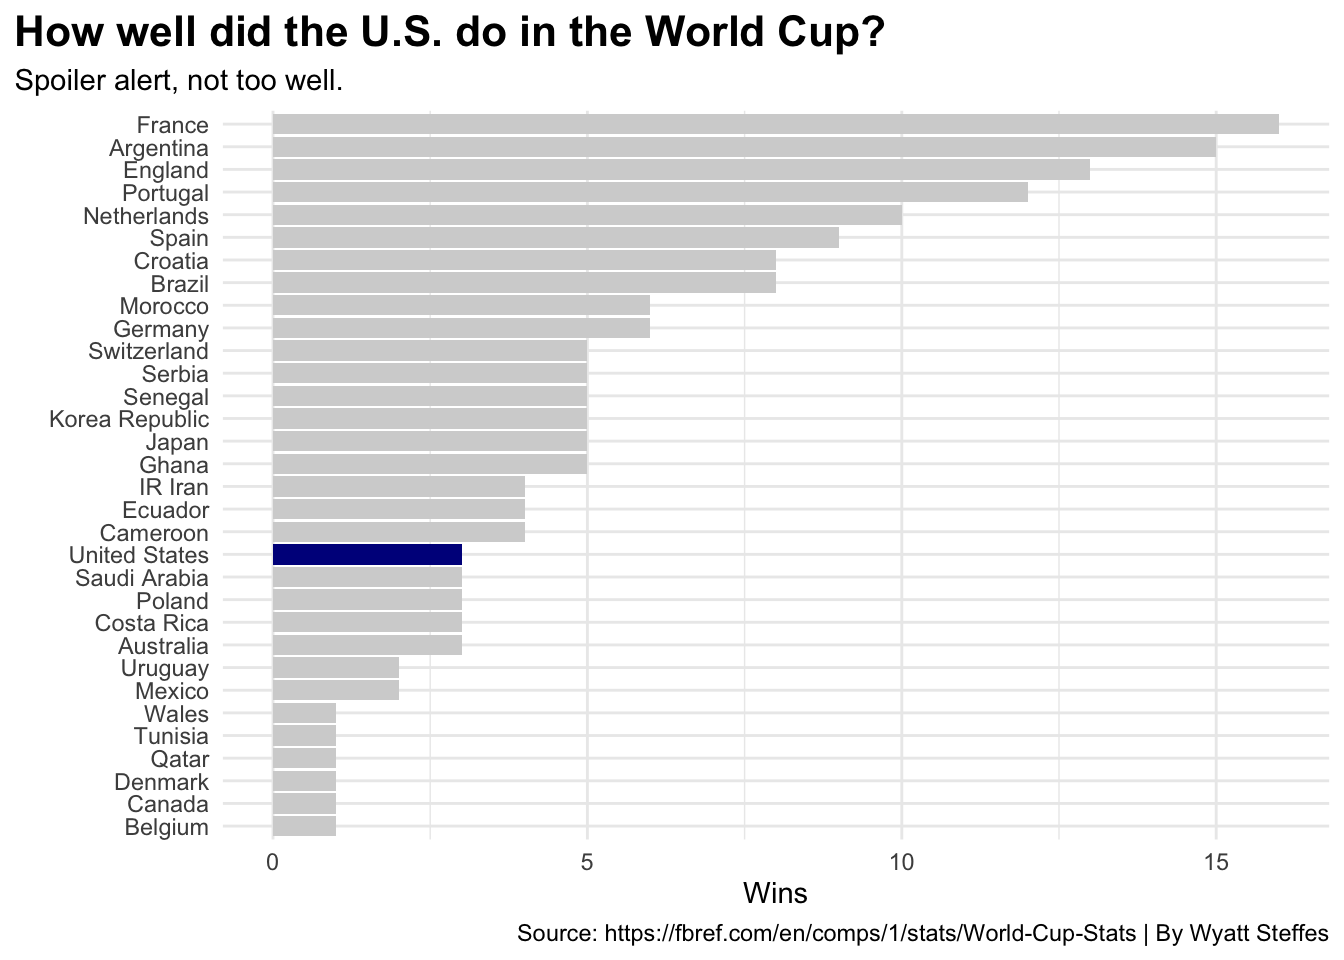
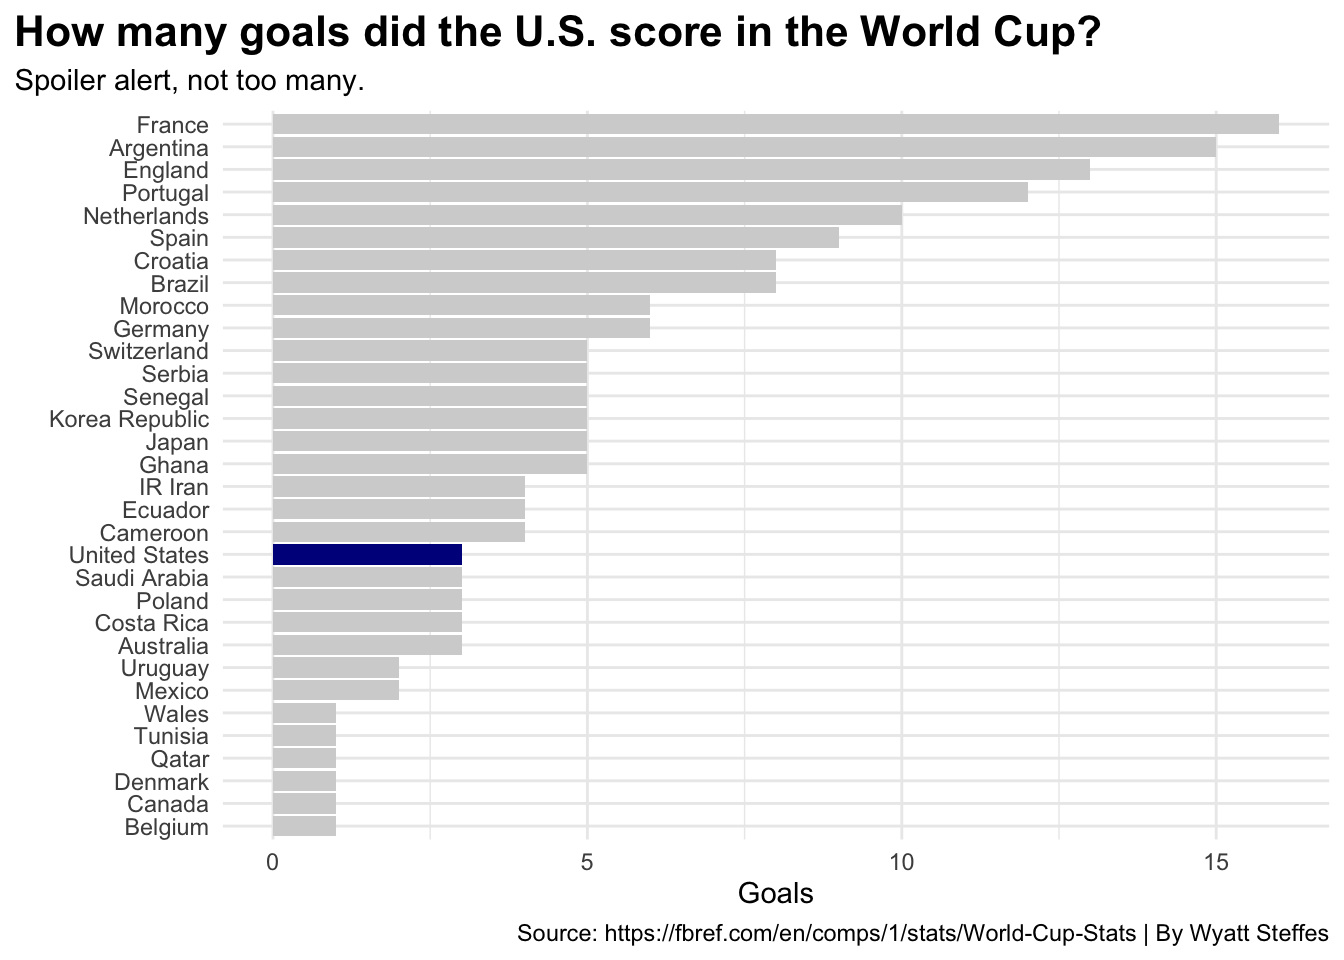
Test 4

Changed region(s): [[0.0938, 0.0, 0.8125, 0.0938], [0.5312, 0.9062, 0.625, 0.9375]]

diff --git a/posts/US-mens-WC/index.html b/posts/US-mens-WC/index.html
@@ -9,7 +9,7 @@
 <meta name="author" content="Wyatt Steffes">
 <meta name="dcterms.date" content="2023-05-04">
 
-<title>Wyatt Steffes’ Blog - Why did the U.S. Men’s soccer team fail in the Wiorld Cup this year?</title>
+<title>Wyatt Steffes’ Blog - Why did the U.S. Men’s soccer team fail in the World Cup this year?</title>
 <style>
 code{white-space: pre-wrap;}
 span.smallcaps{font-variant: small-caps;}
@@ -173,7 +173,7 @@ code span.wa { color: #60a0b0; font-weight: bold; font-style: italic; } /* Warni
 <header id="title-block-header" class="quarto-title-block default page-columns page-full">
   <div class="quarto-title-banner page-columns page-full">
     <div class="quarto-title column-body">
-      <h1 class="title">Why did the U.S. Men’s soccer team fail in the Wiorld Cup this year?</h1>
+      <h1 class="title">Why did the U.S. Men’s soccer team fail in the World Cup this year?</h1>
                                 <div class="quarto-categories">
                 <div class="quarto-category">World Cup</div>
                 <div class="quarto-category">United States</div>
@@ -213,7 +213,7 @@ code span.wa { color: #60a0b0; font-weight: bold; font-style: italic; } /* Warni
 
 
 
-<p>Here’s the first test line on why the U.S. sucks at the World Cup</p>
+<p>Soccer has never been the most popular sport in the United States. Seeming to be nothing more than a european trend for some americans, most U.S. sports fans have given little care to the sport. Over the last few years though, the sport has become more popular due to the national team’s success in international competition. The women’s team have dominated the Women’s World Cup in recent years, winning three world cup titles. They have brought a lot of attention to the sport to the states, and now the men’s team have helped boost the country’s support for the team with their presence in the World Cup. Even though the men’s team managed to have a strong presence of support this past year, they only managed to make it to the round of 16. Seeing that the United States love to be first in everything, why didn’t they place higher in the World Cup? The men’s team has never gotten farther than the round of 16. With a roster of very talented players, why couldn’t they make it past the round of 16 this time?We can start by taking a look at how many goals they scored in the World Cup.</p>
 <div class="cell">
 <details>
 <summary>Code</summary>
@@ -232,7 +232,7 @@ code span.wa { color: #60a0b0; font-weight: bold; font-style: italic; } /* Warni
 <span id="cb1-13"><a href="#cb1-13" aria-hidden="true" tabindex="-1"></a><span class="fu">ggplot</span>() <span class="sc">+</span></span>
 <span id="cb1-14"><a href="#cb1-14" aria-hidden="true" tabindex="-1"></a>  <span class="fu">geom_bar</span>(<span class="at">data=</span>goals2, <span class="fu">aes</span>(<span class="at">x=</span><span class="fu">reorder</span>(Squad, Gls...<span class="dv">9</span>), <span class="at">weight=</span>Gls...<span class="dv">9</span>), <span class="at">fill=</span><span class="st">"lightgrey"</span>) <span class="sc">+</span></span>
 <span id="cb1-15"><a href="#cb1-15" aria-hidden="true" tabindex="-1"></a>  <span class="fu">geom_bar</span>(<span class="at">data=</span>US, <span class="fu">aes</span>(<span class="at">x=</span><span class="fu">reorder</span>(Squad, Gls...<span class="dv">9</span>), <span class="at">weight=</span>Gls...<span class="dv">9</span>), <span class="at">fill=</span><span class="st">"darkblue"</span>) <span class="sc">+</span></span>
-<span id="cb1-16"><a href="#cb1-16" aria-hidden="true" tabindex="-1"></a>  <span class="fu">labs</span>(<span class="at">x=</span><span class="st">" "</span>, <span class="at">y=</span><span class="st">"Wins"</span>, <span class="at">title=</span><span class="st">"How well did the U.S. do in the World Cup?"</span>, <span class="at">subtitle=</span> <span class="st">"Spoiler alert, not too well."</span>, <span class="at">caption=</span><span class="st">"Source: https://fbref.com/en/comps/1/stats/World-Cup-Stats | By Wyatt Steffes"</span>) <span class="sc">+</span></span>
+<span id="cb1-16"><a href="#cb1-16" aria-hidden="true" tabindex="-1"></a>  <span class="fu">labs</span>(<span class="at">x=</span><span class="st">" "</span>, <span class="at">y=</span><span class="st">"Goals"</span>, <span class="at">title=</span><span class="st">"How many goals did the U.S. score in the World Cup?"</span>, <span class="at">subtitle=</span> <span class="st">"Spoiler alert, not too many."</span>, <span class="at">caption=</span><span class="st">"Source: https://fbref.com/en/comps/1/stats/World-Cup-Stats | By Wyatt Steffes"</span>) <span class="sc">+</span></span>
 <span id="cb1-17"><a href="#cb1-17" aria-hidden="true" tabindex="-1"></a>  <span class="fu">theme</span>(<span class="at">plot.title =</span> <span class="fu">element_text</span>(<span class="at">face=</span><span class="st">"bold"</span>)) <span class="sc">+</span></span>
 <span id="cb1-18"><a href="#cb1-18" aria-hidden="true" tabindex="-1"></a>  <span class="fu">theme_minimal</span>()<span class="sc">+</span></span>
 <span id="cb1-19"><a href="#cb1-19" aria-hidden="true" tabindex="-1"></a>  <span class="fu">theme</span>(</span>
@@ -245,7 +245,8 @@ code span.wa { color: #60a0b0; font-weight: bold; font-style: italic; } /* Warni
 <p><img src="index_files/figure-html/unnamed-chunk-1-1.png" class="img-fluid" width="672"></p>
 </div>
 </div>
-<p>Here’s test line #2</p>
+<p>The men’s team played 4 matches and only managed to score 3 goals. That is pretty average for that amount of matches played for a team. So clearly the team needs to score more goals.</p>
+<p>One of the top goal scorers for the men’s national team is captain america himself; Christian Pulisic. Christian has only played for the national team for a few years now. In those few years, he has managed to make a name for himself and become the poster child for United States soccer. On the field, Christian plays at midfield, which means he can play at multiple positions throughout the game and the season. Seeing that he is one of the men’s national team key players, we can take a look at which position the team benefits from. We can analyze this by looking at his wins, losses and draws from end of his 2021 season to the end of his 2022 season on both the U.S. men’s national team and his club team in England, Chelsea F.C. The games Christitian Played for the U.S. are highlighted in darker colors.</p>
 <div class="cell">
 <details>
 <summary>Code</summary>
@@ -285,7 +286,8 @@ code span.wa { color: #60a0b0; font-weight: bold; font-style: italic; } /* Warni
 <p><img src="index_files/figure-html/unnamed-chunk-2-1.png" class="img-fluid" width="672"></p>
 </div>
 </div>
-<p>Here’s test line #3</p>
+<p>It seems Christian plays his best games for the U.S. at the forward position, and had the most losses for the U.S. at the left wing position. So the team just needs to play Christian at the forward position to win more.</p>
+<p>Now that we’ve seen one of the offensive prom=blems for the team, let’s look at the teams defense. More specifically, let’s analyze the most important position of the defensive end of a soccer team; the goalie. The U.S. played MAtt Turner at goalie for the entire tournament. He had a save percentage of 75% throughout the whole tournament. That’s not bad, so let’s compare it to the rest of the goalies in the tournament.</p>
 <div class="cell">
 <details>
 <summary>Code</summary>
@@ -301,18 +303,21 @@ code span.wa { color: #60a0b0; font-weight: bold; font-style: italic; } /* Warni
 <span id="cb3-10"><a href="#cb3-10" aria-hidden="true" tabindex="-1"></a>    <span class="at">data=</span>wall, </span>
 <span id="cb3-11"><a href="#cb3-11" aria-hidden="true" tabindex="-1"></a>    <span class="fu">aes</span>(<span class="at">y=</span>Squad, <span class="at">x=</span>GA, <span class="at">xend=</span>Saves),</span>
 <span id="cb3-12"><a href="#cb3-12" aria-hidden="true" tabindex="-1"></a>    <span class="at">colour =</span> <span class="st">"grey"</span>,</span>
-<span id="cb3-13"><a href="#cb3-13" aria-hidden="true" tabindex="-1"></a>    <span class="at">colour_x =</span> <span class="st">"green"</span>,</span>
-<span id="cb3-14"><a href="#cb3-14" aria-hidden="true" tabindex="-1"></a>    <span class="at">colour_xend =</span> <span class="st">"red"</span>) <span class="sc">+</span></span>
-<span id="cb3-15"><a href="#cb3-15" aria-hidden="true" tabindex="-1"></a>    <span class="fu">labs</span>(<span class="at">x=</span><span class="st">"Goals Allowed"</span>, <span class="at">y=</span><span class="st">" "</span>, <span class="at">title=</span><span class="st">"The U.S, needs to work on their defense."</span>, <span class="at">subtitle=</span><span class="st">"The green means goals saved. The red means goals allowed.***"</span>, <span class="at">caption=</span><span class="st">"Source: https://fbref.com/en/comps/1/keepers/World-Cup-Stats | By Wyatt Steffes"</span>) <span class="sc">+</span></span>
+<span id="cb3-13"><a href="#cb3-13" aria-hidden="true" tabindex="-1"></a>    <span class="at">colour_x =</span> <span class="st">"red"</span>,</span>
+<span id="cb3-14"><a href="#cb3-14" aria-hidden="true" tabindex="-1"></a>    <span class="at">colour_xend =</span> <span class="st">"green"</span>) <span class="sc">+</span></span>
+<span id="cb3-15"><a href="#cb3-15" aria-hidden="true" tabindex="-1"></a>    <span class="fu">labs</span>(<span class="at">x=</span><span class="st">"Goals"</span>, <span class="at">y=</span><span class="st">" "</span>, <span class="at">title=</span><span class="st">"The U.S, needs to work on their defense."</span>, <span class="at">subtitle=</span><span class="st">"The green means goals saved. The red means goals allowed."</span>, <span class="at">caption=</span><span class="st">"Source: https://fbref.com/en/comps/1/keepers/World-Cup-Stats | By Wyatt Steffes"</span>) <span class="sc">+</span></span>
 <span id="cb3-16"><a href="#cb3-16" aria-hidden="true" tabindex="-1"></a>  <span class="fu">theme</span>(</span>
-<span id="cb3-17"><a href="#cb3-17" aria-hidden="true" tabindex="-1"></a>    <span class="at">plot.title =</span> <span class="fu">element_text</span>(<span class="at">size =</span> <span class="dv">16</span>, <span class="at">face =</span> <span class="st">"bold"</span>)</span>
-<span id="cb3-18"><a href="#cb3-18" aria-hidden="true" tabindex="-1"></a>    ) <span class="sc">+</span></span>
-<span id="cb3-19"><a href="#cb3-19" aria-hidden="true" tabindex="-1"></a>  <span class="fu">theme_minimal</span>()</span></code><button title="Copy to Clipboard" class="code-copy-button"><i class="bi"></i></button></pre></div>
+<span id="cb3-17"><a href="#cb3-17" aria-hidden="true" tabindex="-1"></a>    <span class="at">plot.title =</span> <span class="fu">element_text</span>(<span class="at">size =</span> <span class="dv">16</span>, <span class="at">face =</span> <span class="st">"bold"</span>),</span>
+<span id="cb3-18"><a href="#cb3-18" aria-hidden="true" tabindex="-1"></a>    <span class="at">plot.title.position =</span> <span class="st">"plot"</span></span>
+<span id="cb3-19"><a href="#cb3-19" aria-hidden="true" tabindex="-1"></a>    ) <span class="sc">+</span></span>
+<span id="cb3-20"><a href="#cb3-20" aria-hidden="true" tabindex="-1"></a>  <span class="fu">theme_minimal</span>()</span></code><button title="Copy to Clipboard" class="code-copy-button"><i class="bi"></i></button></pre></div>
 </details>
 <div class="cell-output-display">
 <p><img src="index_files/figure-html/unnamed-chunk-3-1.png" class="img-fluid" width="672"></p>
 </div>
 </div>
+<p>Honestly, not a terrible performance. Matt Turner’s tournament performance seemed to be an average one compared to the other goalies in the tournament. He made 8 saves and let in 4 goals. So the U.S. defense department seems to be doing fine.</p>
+<p>So where is the problem for the U.S. men’s national team? There really is no clear answer. Based on the charts above, them seem to be just the average team in the tournament. If they want to win the next World Cup, the team may need to find some local superstars that can help out on both ends of the field.</p>
 
 
 

diff --git a/index.html b/index.html
@@ -195,14 +195,14 @@ ul.task-list li input[type="checkbox"] {
 <a href="./posts/nuggets-mile-high/Big Project #1.Rmd"> </a>
 </div>
 </div>
-<div class="quarto-post image-right" data-index="1" data-categories="World Cup,United States,Men" data-listing-date-sort="1683176400000" data-listing-file-modified-sort="1683314882032" data-listing-reading-time-sort="1.935">
+<div class="quarto-post image-right" data-index="1" data-categories="World Cup,United States,Men" data-listing-date-sort="1683176400000" data-listing-file-modified-sort="1683508197237" data-listing-reading-time-sort="4.855">
 <div class="thumbnail">
 <p><a href="./posts/US-mens-WC/index.html"> <img src="./posts/US-mens-WC/image.png" class="thumnail-image"> </a></p>
 </div>
 <div class="body">
 <a href="./posts/US-mens-WC/index.html">
 <h3 class="no-anchor listing-title">
-Why did the U.S. Men’s soccer team fail in the Wiorld Cup this year?
+Why did the U.S. Men’s soccer team fail in the World Cup this year?
 </h3>
 <div class="listing-subtitle">
 
@@ -221,7 +221,7 @@ Men
 </div>
 <a href="./posts/US-mens-WC/index.html">
 <div class="listing-description">
-Here’s the first test line on why the U.S. sucks at the World Cup
+Soccer has never been the most popular sport in the United States. Seeming to be nothing more than a european trend for some americans, most U.S. sports fans have given…
 </div>
 </a>
 </div>
